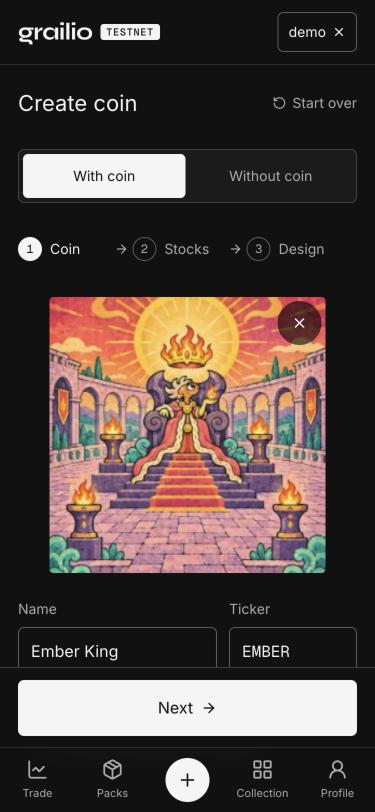
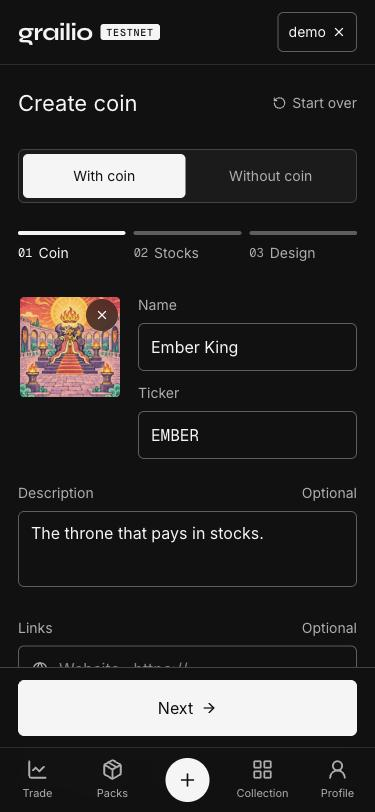
Retake the launch walkthrough screenshots with the new design

diff --git a/docs/walkthrough/README.md b/docs/walkthrough/README.md
@@ -22,9 +22,9 @@ The centre **+** button opens Launch. A creator picks *With coin* (a memecoin an
 | | |
 |---|---|
 | <img src="03-launch-coin.jpg" width="260"> | **Coin.** Picture, name and ticker, like any launchpad. |
-| <img src="04-launch-coin-details.jpg" width="260"> | **Details.** Description, optional links and a colour. The preview card shows the coin, its launchpad (Flap) and the 10-pack presale. |
-| <img src="05-launch-stocks.jpg" width="260"> | **Stocks.** The basket the cards draw from. Here it's the *AI chips* preset: NVDA 40 %, AMD 30 %, MU 30 %. |
-| <img src="06-launch-design-pack.jpg" width="260"> | **Design: pack.** Use the defaults or customize the pack art and colour. |
+| <img src="04-launch-coin-details.jpg" width="260"> | **Details.** Optional links and a colour. The preview shows the coin, its launchpad (Flap) and the 10-pack presale. |
+| <img src="05-launch-stocks.jpg" width="260"> | **Stocks.** The basket the cards draw from, each with its weight bar. Here it's the *AI chips* preset: NVDA, AMD and MU. |
+| <img src="06-launch-design-pack.jpg" width="260"> | **Design: pack.** Use the defaults or customize the pack colour and cover (here the Fable art). |
 | <img src="07-launch-design-cards.jpg" width="260"> | **Design: cards.** One artwork per rarity. |
 
 ## 3. Presale
